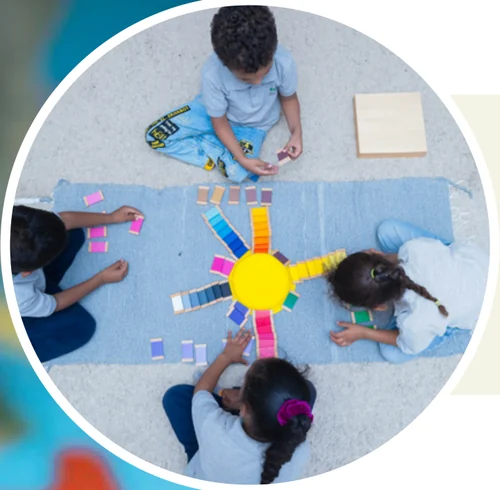
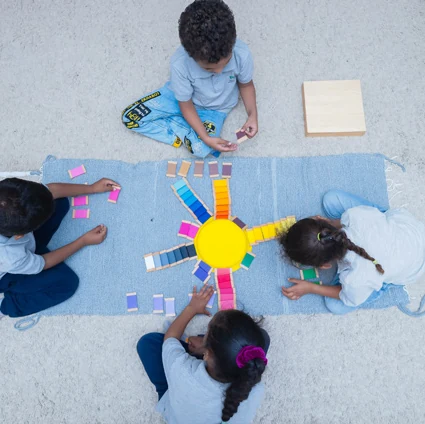
Page 76: raw poster and circles from the PDF, no ghost rims; link the carbon footprint and financed emissions reports

diff --git a/src/pages/EnvironmentalStewardship.jsx b/src/pages/EnvironmentalStewardship.jsx
@@ -1119,7 +1119,7 @@ export default function EnvironmentalStewardship() {
           <p>
             Understanding our environmental impact begins with measuring it. EFG
             Holding released its second{' '}
-            <span className="rp-link">Carbon Footprint Report</span> - the first
+            <a className="rp-link" href="https://efgholding.com/uploads/EFG_Holding_Carbon_Footprint_Report_2024_e4ac153497.pdf" target="_blank" rel="noopener noreferrer">Carbon Footprint Report</a> - the first
             comprehensive assessment encompassing all its facilities and
             operations - covering the reporting period from January 1 to December
             31, 2024. This year has been designated as the base year against which
@@ -1328,7 +1328,7 @@ export default function EnvironmentalStewardship() {
           <div className="rp-cols">
             <p>
               In 2025, EFG Holding released its first{' '}
-              <span className="rp-link">financed emissions assessment</span>. As a
+              <a className="rp-link" href="https://efgholding.com/uploads/Financed_Emissions_Report_2024_c97b16ecc3.pdf" target="_blank" rel="noopener noreferrer">financed emissions assessment</a>. As a
               pilot exercise, the report focuses on a single line of business, EFG
               Corp-Solutions, with the aim of progressively expanding coverage to
               additional business lines in future assessments. The analysis

diff --git a/src/styles/report.css b/src/styles/report.css
@@ -1544,12 +1544,18 @@
    a circle. */
 .rp-montessori { display: grid; grid-template-columns: 53cqw 1fr; gap: 0; align-items: center; margin: 3cqw 0; }
 .rp-mfigures { margin-left: -8.71cqw; }
-.rp-montessori > img { width: 100%; height: auto; }
+/* Both files are the raw images out of the PDF (tools/extract-raw-photos.py).
+   The poster used to be a crop of the rendered page, and it carried the left
+   halves of the three circles that overlap it — they showed as a second, ghost
+   rim behind each circle. The poster's 28pt rounded corners and each circle's
+   round clip and 2pt white rule are drawn here instead. */
+.rp-montessori > img { width: 100%; height: auto; border-radius: 8.91% / 7.27%; }
 .rp-mfigures { display: grid; gap: 1.8cqw; }
 .rp-mfigure { display: grid; grid-template-columns: 17.1cqw 1fr; align-items: center; }
 .rp-mfigure img {
-  width: 100%; height: auto; border-radius: 50%;
-  border: 2px solid var(--sr-white); background: #2b9c7a; position: relative; z-index: 1;
+  box-sizing: border-box; width: 100%; height: auto; aspect-ratio: 1; object-fit: cover;
+  border-radius: 50%; border: max(2px, .336cqw) solid var(--sr-white);
+  background: #2b9c7a; position: relative; z-index: 1;
 }
 .rp-mfigure div { background: #f4f4e5; padding: 1.4cqw 1.6cqw 1.4cqw 4cqw; margin-left: -2.4cqw; }
 .rp-sec .rp-mfigure b {

diff --git a/src/pages/SocialInvestment.jsx b/src/pages/SocialInvestment.jsx
@@ -1530,12 +1530,12 @@ export default function SocialInvestment() {
           </div>
 
           <div className="rp-montessori">
-            <img src={montessori} width="738" height="900"
+            <img src={montessori} width="540" height="661"
                  alt="Montessori Education — a pioneering approach in Upper Egypt, Young Scholars’ Academy" />
             <div className="rp-mfigures">
               {montessoriFigures.map(([figure, label, photo]) => (
                 <div className="rp-mfigure" key={label}>
-                  <img src={photo} width="500" height="490" alt="" />
+                  <img src={photo} width="425" height="424" alt="" />
                   <div><b>{figure}</b><span>{label}</span></div>
                 </div>
               ))}

diff --git a/tools/extract-raw-photos.py b/tools/extract-raw-photos.py
@@ -27,12 +27,17 @@ OUT = ROOT / 'src' / 'assets' / 'report'
 JOBS = [
     ('env/p41-photo-{n}', 20, (900, 0, 1191, 842)),   # printed page 41, the six participant cards
     ('soc/p74-photo-{n}', 37, (0, 150, 569, 800)),    # printed page 74, the Foundation's year
+    ('soc/p76-circle-{n}', 38, (290, 395, 410, 730)),  # printed page 76, the three round photographs
+    # printed page 76, the poster: the rendered crop took in the left halves of the
+    # three circles that overlap it, which showed as ghost arcs behind them
+    ('soc/p76-montessori', 38, (30, 375, 355, 768), 400),
 ]
 
 
 def main():
     doc = pymupdf.open(PDF)
-    for name, sheet, region in JOBS:
+    for name, sheet, region, *opt in JOBS:
+        maxw = opt[0] if opt else 300
         page = doc[sheet]
         area = pymupdf.Rect(region)
         images = sorted(
@@ -41,7 +46,7 @@ def main():
             key=lambda t: t[1][1])
         clips = [pymupdf.Rect(x['scissor']) for x in page.get_drawings(extended=True)
                  if x['type'] == 'clip' and area.contains(pymupdf.Rect(x['scissor']))
-                 and x['scissor'][2] - x['scissor'][0] < 300]
+                 and x['scissor'][2] - x['scissor'][0] < maxw]
         for n, (xref, bb) in enumerate(images, 1):
             # the clip that covers most of this picture is the frame it is shown in
             clip = max(clips, key=lambda c: (c & pymupdf.Rect(bb)).get_area())

diff --git a/tools/assets.py b/tools/assets.py
@@ -164,10 +164,8 @@ A = [
   # soc/p74-photo-1..5 are taken straight from the PDF by tools/extract-raw-photos.py:
   # the first crop took a line of the card above and its rule with it.
   ('soc/p75-academy',       37, (631.7,361.5,700.5,417.9),  'flat', 900, 600),
-  ('soc/p76-montessori',    38, (34.6,379.1,350.3,764.0), 'flat', 400, 900),
-  ('soc/p76-circle-1',      38, (298.4,402.0,402.1,503.7),  'flat', 500, 500),
-  ('soc/p76-circle-2',      38, (298.4,512.1,402.1,613.8),  'flat', 500, 500),
-  ('soc/p76-circle-3',      38, (298.4,622.3,402.1,723.9),  'flat', 500, 500),
+  # soc/p76-montessori and soc/p76-circle-1..3 are taken straight from the PDF by
+  # tools/extract-raw-photos.py: the poster crop carried the circles' left halves.
   ('soc/p77-zainab',        38, (631.3,257.0,804.4,464.7),  'flat', 400, 800),
   ('soc/p77-alnour',        38, (1076.6,478.0,1154.6,558.5),'flat', 900, 600),
   ('soc/p78-photo-1',       39, (36.96,238.16,290.9,478.16), 'flat', 400, 800),

diff --git a/HANDOVER.md b/HANDOVER.md
@@ -149,6 +149,16 @@ what was done:
   and every page stays ragged-right on a phone. Panels, cards and captions keep
   their own alignment.
 
+- **Page 76, the Montessori poster and circles** (CSR team). The poster was a
+  crop of the rendered page and carried the left halves of the three circles
+  that overlap it, so each circle showed a second, ghost rim. The poster and the
+  three photographs are now the raw images out of the PDF; the poster's rounded
+  corners and each circle's clip and 2pt white rule are CSS.
+- **The Carbon Footprint Report and financed emissions assessment links**
+  (CSR team), on printed pages 32 and 36, are live links to the two PDFs on
+  efgholding.com, as the print links them. Every other link in the PDF was
+  already on the site.
+
 ### How the second round was run
 
 A senior product designer reviewed each comment against the PDF, a front-end
